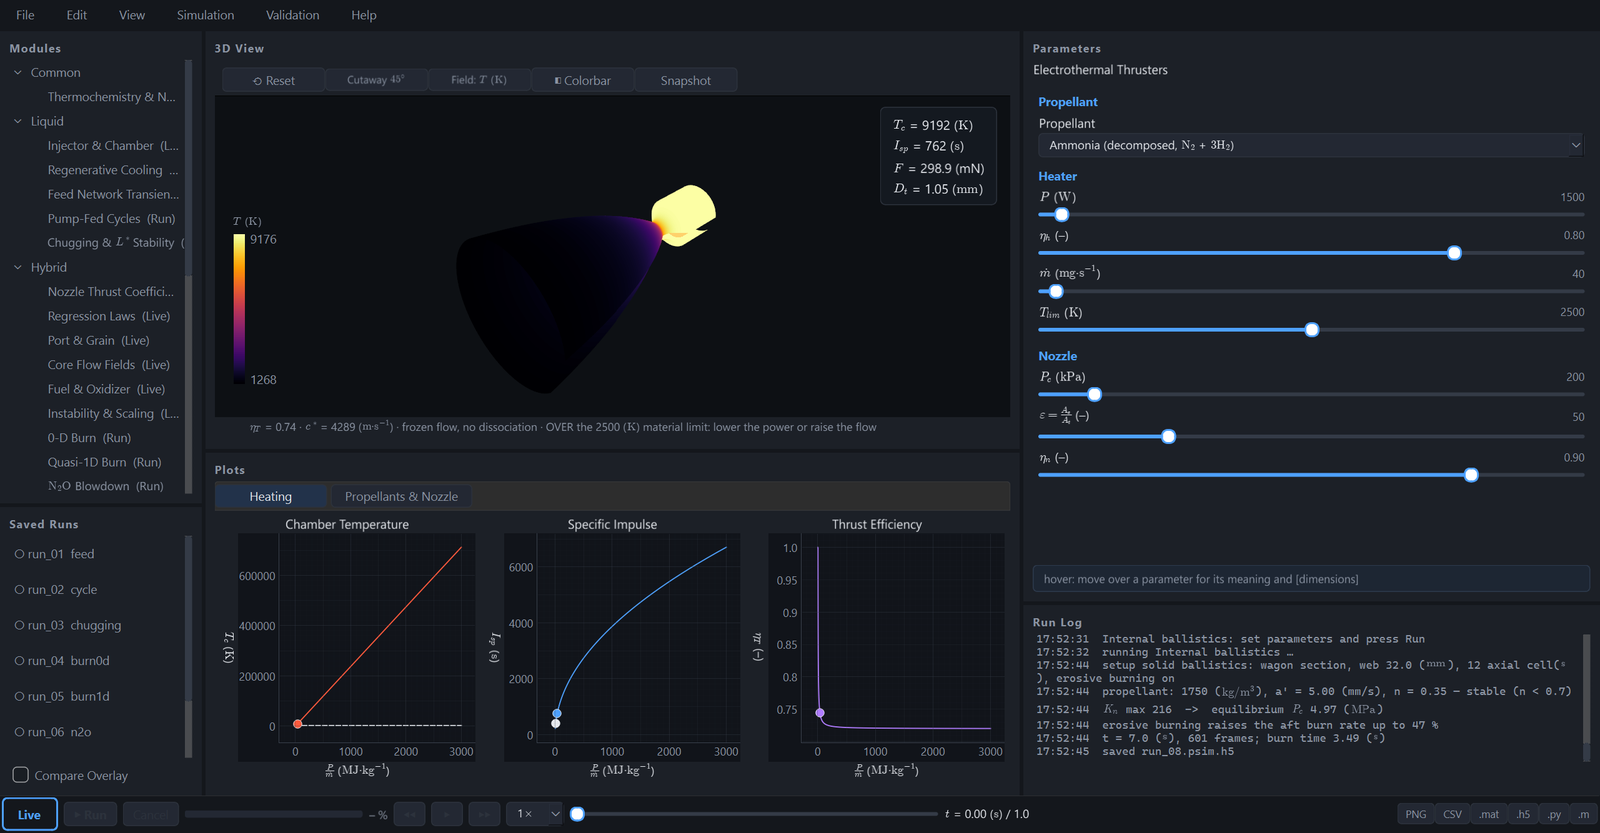
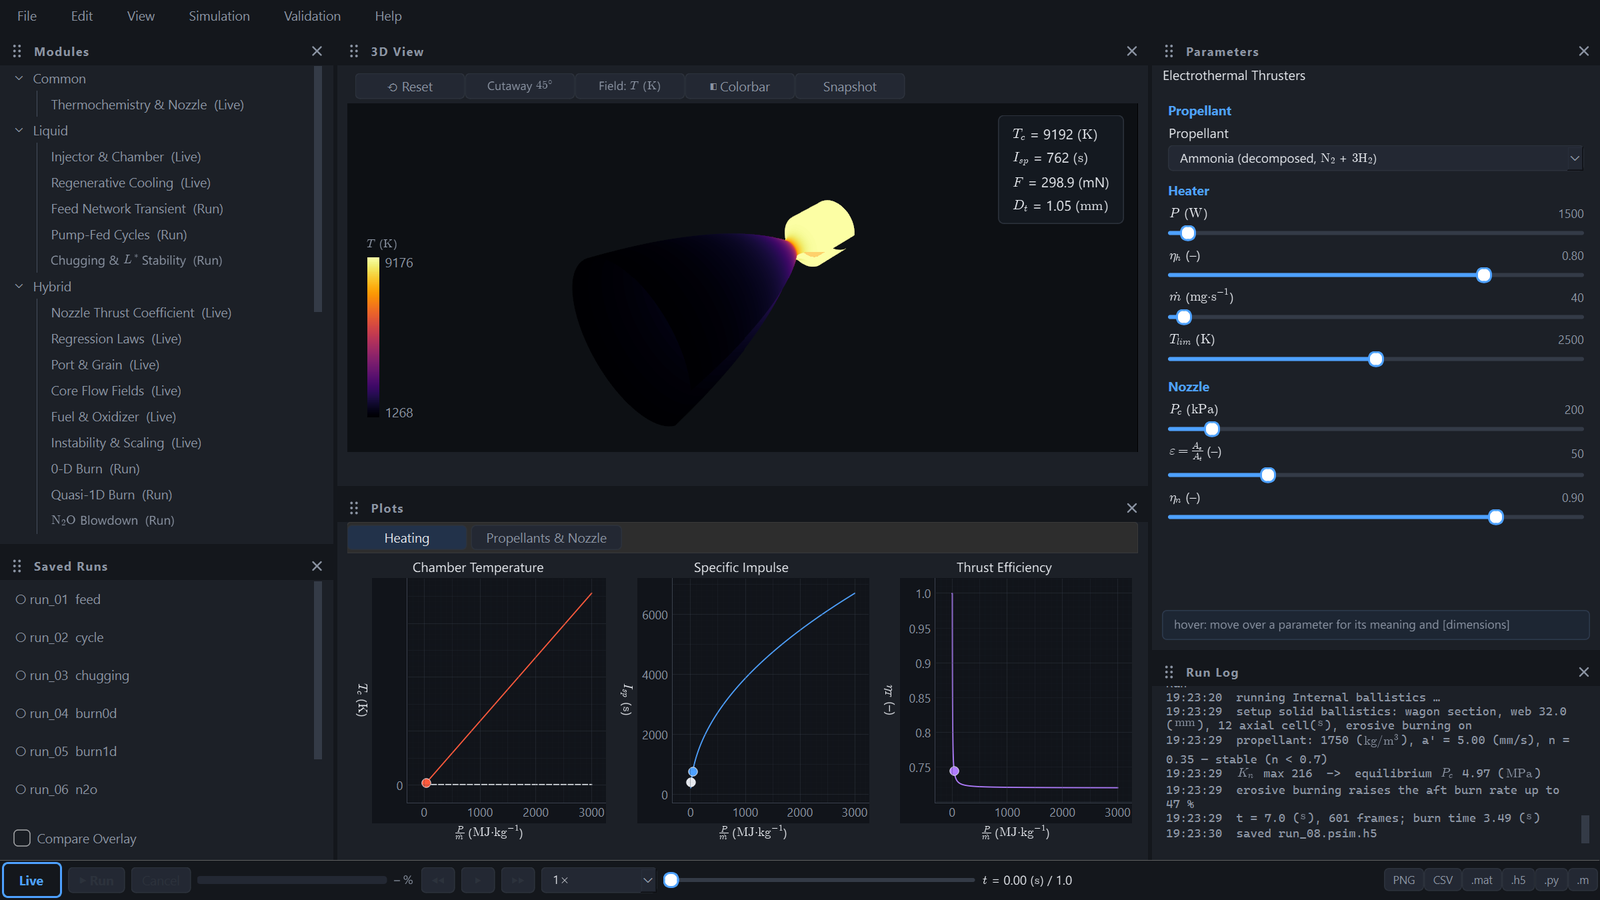
README: Gallery section last, vehicle and tutorial entries, regenerated screenshots

diff --git a/README.md b/README.md
@@ -3,67 +3,6 @@
 Interactive 3D rocket propulsion simulator for Windows: liquid, hybrid, solid and electric propulsion in one desktop
 application, with live parameter studies, time-domain simulations, synchronized 3D views and publication-style plots.
 
-## Screenshots
-
-<table>
-  <tr>
-    <td><img src="docs/gallery/01-thermochemistry-and-nozzle.png" alt="Thermochemistry & nozzle: propellant pair, O/F, P_c and area ratio give CEA performance and the nozzle"><br><sub><b>Thermochemistry & nozzle</b> (Common, Live)</sub></td>
-    <td><img src="docs/gallery/02-injector-and-chamber.png" alt="Injector & chamber: injector and chamber sizing"><br><sub><b>Injector & chamber</b> (Liquid, Live)</sub></td>
-  </tr>
-  <tr>
-    <td><img src="docs/gallery/03-regenerative-cooling.png" alt="Regenerative cooling: regenerative cooling of the chamber and nozzle"><br><sub><b>Regenerative cooling</b> (Liquid, Live)</sub></td>
-    <td><img src="docs/gallery/04-feed-network-transient.png" alt="Feed network transient: feed-network transient (valve timing, line dynamics)"><br><sub><b>Feed network transient</b> (Liquid, Run)</sub></td>
-  </tr>
-  <tr>
-    <td><img src="docs/gallery/05-pump-fed-cycles.png" alt="Pump-fed cycles: pump-fed cycles (gas generator, expander, staged combustion)"><br><sub><b>Pump-fed cycles</b> (Liquid, Run)</sub></td>
-    <td><img src="docs/gallery/06-chugging-and-l-star-stability.png" alt="Chugging & L* stability: chugging and L* stability"><br><sub><b>Chugging & L* stability</b> (Liquid, Run)</sub></td>
-  </tr>
-  <tr>
-    <td><img src="docs/gallery/07-nozzle-thrust-coefficient.png" alt="Nozzle thrust coefficient: nozzle area ratio gives the C_F curve, Mach and pressure distributions, and a 3D bell nozzle"><br><sub><b>Nozzle thrust coefficient</b> (Hybrid, Live)</sub></td>
-    <td><img src="docs/gallery/08-regression-laws.png" alt="Regression laws: regression-law explorer"><br><sub><b>Regression laws</b> (Hybrid, Live)</sub></td>
-  </tr>
-  <tr>
-    <td><img src="docs/gallery/09-port-and-grain.png" alt="Port & grain: port and multiport grain"><br><sub><b>Port & grain</b> (Hybrid, Live)</sub></td>
-    <td><img src="docs/gallery/10-core-flow-fields.png" alt="Core flow fields: core flow fields (Taylor-Culick and bidirectional-vortex mantle)"><br><sub><b>Core flow fields</b> (Hybrid, Live)</sub></td>
-  </tr>
-  <tr>
-    <td><img src="docs/gallery/11-fuel-and-oxidizer.png" alt="Fuel & oxidizer: fuel and oxidizer properties"><br><sub><b>Fuel & oxidizer</b> (Hybrid, Live)</sub></td>
-    <td><img src="docs/gallery/12-instability-and-scaling.png" alt="Instability & scaling: ILFI instability and similarity scaling"><br><sub><b>Instability & scaling</b> (Hybrid, Live)</sub></td>
-  </tr>
-  <tr>
-    <td><img src="docs/gallery/13-0-d-burn.png" alt="0-D burn: 0-D burn (HTPB/GOX power law) with 3D grain cutaway playback"><br><sub><b>0-D burn</b> (Hybrid, Run)</sub></td>
-    <td><img src="docs/gallery/14-quasi-1d-burn.png" alt="Quasi-1D burn: quasi-1D burn: axial port evolution, throttling, throat erosion"><br><sub><b>Quasi-1D burn</b> (Hybrid, Run)</sub></td>
-  </tr>
-  <tr>
-    <td><img src="docs/gallery/15-n2o-blowdown.png" alt="N₂O blowdown: N2O self-pressurized tank blowdown feeding the hybrid motor"><br><sub><b>N₂O blowdown</b> (Hybrid, Run)</sub></td>
-    <td><img src="docs/gallery/16-grain-designer.png" alt="Grain designer: grain designer (2-D section burnback tables)"><br><sub><b>Grain designer</b> (Solid, Live)</sub></td>
-  </tr>
-  <tr>
-    <td><img src="docs/gallery/17-burn-rate-and-k-n.png" alt="Burn rate & K_n: burn-rate and K_n tool"><br><sub><b>Burn rate & K_n</b> (Solid, Live)</sub></td>
-    <td><img src="docs/gallery/18-3d-burnback.png" alt="3D burnback: 3-D level-set burnback"><br><sub><b>3D burnback</b> (Solid, Run)</sub></td>
-  </tr>
-  <tr>
-    <td><img src="docs/gallery/19-internal-ballistics.png" alt="Internal ballistics: internal ballistics"><br><sub><b>Internal ballistics</b> (Solid, Run)</sub></td>
-    <td><img src="docs/gallery/20-mission-and-power-trades.png" alt="Mission & power trades: mission and power trades"><br><sub><b>Mission & power trades</b> (Electric, Live)</sub></td>
-  </tr>
-  <tr>
-    <td><img src="docs/gallery/21-electrothermal-thrusters.png" alt="Electrothermal thrusters: electrothermal thrusters"><br><sub><b>Electrothermal thrusters</b> (Electric, Live)</sub></td>
-    <td><img src="docs/gallery/22-gridded-ion-thruster.png" alt="Gridded ion thruster: gridded ion thruster"><br><sub><b>Gridded ion thruster</b> (Electric, Live)</sub></td>
-  </tr>
-  <tr>
-    <td><img src="docs/gallery/23-hall-thruster.png" alt="Hall thruster: Hall thruster"><br><sub><b>Hall thruster</b> (Electric, Live)</sub></td>
-    <td><img src="docs/gallery/24-ion-optics.png" alt="Ion optics: ion-optics beamlet particle simulation"><br><sub><b>Ion optics</b> (Electric, Run)</sub></td>
-  </tr>
-  <tr>
-    <td><img src="docs/gallery/25-hall-discharge.png" alt="Hall discharge: 1-D Hall discharge"><br><sub><b>Hall discharge</b> (Electric, Run)</sub></td>
-    <td><img src="docs/gallery/26-low-thrust-spiral.png" alt="Low-thrust spiral: low-thrust Edelbaum spiral with solar-array degradation"><br><sub><b>Low-thrust spiral</b> (Electric, Run)</sub></td>
-  </tr>
-  <tr>
-    <td><img src="docs/gallery/27-spring-mass.png" alt="Spring-mass: damped spring-mass, a proof of the Run pipeline (not a propulsion model)"><br><sub><b>Spring-mass</b> (Toy, Run)</sub></td>
-    <td></td>
-  </tr>
-</table>
-
 ## Features
 - **Live mode**: physics recomputes in under 50 ms while you drag a slider; plots, 3D scene and readouts follow.
 - **Run mode**: longer simulations run in a separate process with progress and Cancel, then play back with a
@@ -78,13 +17,19 @@ application, with live parameter studies, time-domain simulations, synchronized 
     internal ballistics with erosive burning.
   - *Electric*: mission and power trades (Stuhlinger), electrothermal thrusters, gridded ion and Hall thrusters,
     ion-optics particle simulation, Hall discharge, low-thrust Edelbaum spiral with power degradation.
+  - *Vehicle*: staging and atmosphere budget, and a 2-D point-mass ascent over a spherical Earth (U.S. Standard
+    Atmosphere 1976, drag curves or your own table, wind, up to three stages, pitch kick and level-off guidance,
+    perigee cutoff) that can fly thrust curves sent from the hybrid, solid and liquid models.
 - **All math in LaTeX**: plot labels, tables, readouts and hover help; every plot has a grid.
 - **Color themes**: Graphite, Ocean, Forest, Plum and Light, chosen in *View > Color Theme* (Ctrl+Shift+T; Ctrl+T
   steps to the next one) and remembered between sessions. The picker shows each theme's palette and falls back to the
   theme names alone when the window is too narrow for the palettes.
 
-<p align="center"><img src="docs/gallery/color-themes.png" alt="Color theme picker: Graphite, Ocean, Forest, Plum and Light palettes"></p>
-- **Export**: PNG figures, CSV, MATLAB `.mat`, HDF5, and runnable code:
+- **Panels and tutorial**: every panel has a drag grip (top left) and a close button (top right); *View > Panels* and
+  Ctrl+Shift+R bring them back. *Help > Tutorial* (Ctrl+F1) is a guided tour you step through with the left and right
+  arrow keys, and it is offered on the first launch.
+- **Export**: reports (HTML, PDF, or LaTeX tables with figures) and the exports below, PNG figures, CSV, MATLAB `.mat`,
+  HDF5, and runnable code:
   - *Python script* (`.py`): rebuilds the model with your parameters through the `propsim` package and redraws
     every plot with Matplotlib.
   - *MATLAB script* (`.m` + `_data.mat`): every plot redrawn natively (grid, LaTeX labels); set `rerun = true`
@@ -135,12 +80,14 @@ application, with live parameter studies, time-domain simulations, synchronized 
 
 **Vehicle**
 
+- **Vehicle & staging** (Live): staging budget (ideal velocity, mass, thrust-to-weight), atmosphere, drag and wind, with a stack sketch.
+- **Point-mass ascent** (Run): 2-D point-mass ascent over a spherical Earth with staging, wind, drag and imported thrust profiles.
 
 **Toy**
 
 - **Spring-mass** (Run): damped spring-mass, a proof of the Run pipeline (not a propulsion model).
 
-Planned and not yet implemented: ILFI stability (Run) and point-mass ascent (Vehicle).
+Planned and not yet implemented: ILFI stability (Run).
 
 ## System requirements
 
@@ -172,6 +119,8 @@ CEA tables are used); `pip install -e ".[rao]"` enables Rao optimum-bell angles 
 pygasflow (GPL-3.0, not bundled; without it the bell contour uses labelled placeholder angles).
 
 ## Getting started
+The [user guide](GUIDE.md) covers the window, workflows, exports, the data folder and shortcuts.
+
 1. Pick a model in the **Modules** tree: *(Live)* models update as you move the sliders, *(Run)* models start with
    **Run** (Ctrl+R).
 2. Hover over a parameter to see its meaning and dimensions.
@@ -236,3 +185,70 @@ PropSim's own code is released under the [MIT License](LICENSE). Third-party not
 
 ## Help and feedback
 Questions and bug reports: [GitHub Issues](https://github.com/Chiyami1213/propsim/issues).
+
+## Gallery
+
+<table>
+  <tr>
+    <td><img src="docs/gallery/01-thermochemistry-and-nozzle.png" alt="Thermochemistry & nozzle: propellant pair, O/F, P_c and area ratio give CEA performance and the nozzle"><br><sub><b>Thermochemistry & nozzle</b> (Common, Live)</sub></td>
+    <td><img src="docs/gallery/02-injector-and-chamber.png" alt="Injector & chamber: injector and chamber sizing"><br><sub><b>Injector & chamber</b> (Liquid, Live)</sub></td>
+  </tr>
+  <tr>
+    <td><img src="docs/gallery/03-regenerative-cooling.png" alt="Regenerative cooling: regenerative cooling of the chamber and nozzle"><br><sub><b>Regenerative cooling</b> (Liquid, Live)</sub></td>
+    <td><img src="docs/gallery/04-feed-network-transient.png" alt="Feed network transient: feed-network transient (valve timing, line dynamics)"><br><sub><b>Feed network transient</b> (Liquid, Run)</sub></td>
+  </tr>
+  <tr>
+    <td><img src="docs/gallery/05-pump-fed-cycles.png" alt="Pump-fed cycles: pump-fed cycles (gas generator, expander, staged combustion)"><br><sub><b>Pump-fed cycles</b> (Liquid, Run)</sub></td>
+    <td><img src="docs/gallery/06-chugging-and-l-star-stability.png" alt="Chugging & L* stability: chugging and L* stability"><br><sub><b>Chugging & L* stability</b> (Liquid, Run)</sub></td>
+  </tr>
+  <tr>
+    <td><img src="docs/gallery/07-nozzle-thrust-coefficient.png" alt="Nozzle thrust coefficient: nozzle area ratio gives the C_F curve, Mach and pressure distributions, and a 3D bell nozzle"><br><sub><b>Nozzle thrust coefficient</b> (Hybrid, Live)</sub></td>
+    <td><img src="docs/gallery/08-regression-laws.png" alt="Regression laws: regression-law explorer"><br><sub><b>Regression laws</b> (Hybrid, Live)</sub></td>
+  </tr>
+  <tr>
+    <td><img src="docs/gallery/09-port-and-grain.png" alt="Port & grain: port and multiport grain"><br><sub><b>Port & grain</b> (Hybrid, Live)</sub></td>
+    <td><img src="docs/gallery/10-core-flow-fields.png" alt="Core flow fields: core flow fields (Taylor-Culick and bidirectional-vortex mantle)"><br><sub><b>Core flow fields</b> (Hybrid, Live)</sub></td>
+  </tr>
+  <tr>
+    <td><img src="docs/gallery/11-fuel-and-oxidizer.png" alt="Fuel & oxidizer: fuel and oxidizer properties"><br><sub><b>Fuel & oxidizer</b> (Hybrid, Live)</sub></td>
+    <td><img src="docs/gallery/12-instability-and-scaling.png" alt="Instability & scaling: ILFI instability and similarity scaling"><br><sub><b>Instability & scaling</b> (Hybrid, Live)</sub></td>
+  </tr>
+  <tr>
+    <td><img src="docs/gallery/13-0-d-burn.png" alt="0-D burn: 0-D burn (HTPB/GOX power law) with 3D grain cutaway playback"><br><sub><b>0-D burn</b> (Hybrid, Run)</sub></td>
+    <td><img src="docs/gallery/14-quasi-1d-burn.png" alt="Quasi-1D burn: quasi-1D burn: axial port evolution, throttling, throat erosion"><br><sub><b>Quasi-1D burn</b> (Hybrid, Run)</sub></td>
+  </tr>
+  <tr>
+    <td><img src="docs/gallery/15-n2o-blowdown.png" alt="N₂O blowdown: N2O self-pressurized tank blowdown feeding the hybrid motor"><br><sub><b>N₂O blowdown</b> (Hybrid, Run)</sub></td>
+    <td><img src="docs/gallery/16-grain-designer.png" alt="Grain designer: grain designer (2-D section burnback tables)"><br><sub><b>Grain designer</b> (Solid, Live)</sub></td>
+  </tr>
+  <tr>
+    <td><img src="docs/gallery/17-burn-rate-and-k-n.png" alt="Burn rate & K_n: burn-rate and K_n tool"><br><sub><b>Burn rate & K_n</b> (Solid, Live)</sub></td>
+    <td><img src="docs/gallery/18-3d-burnback.png" alt="3D burnback: 3-D level-set burnback"><br><sub><b>3D burnback</b> (Solid, Run)</sub></td>
+  </tr>
+  <tr>
+    <td><img src="docs/gallery/19-internal-ballistics.png" alt="Internal ballistics: internal ballistics"><br><sub><b>Internal ballistics</b> (Solid, Run)</sub></td>
+    <td><img src="docs/gallery/20-mission-and-power-trades.png" alt="Mission & power trades: mission and power trades"><br><sub><b>Mission & power trades</b> (Electric, Live)</sub></td>
+  </tr>
+  <tr>
+    <td><img src="docs/gallery/21-electrothermal-thrusters.png" alt="Electrothermal thrusters: electrothermal thrusters"><br><sub><b>Electrothermal thrusters</b> (Electric, Live)</sub></td>
+    <td><img src="docs/gallery/22-gridded-ion-thruster.png" alt="Gridded ion thruster: gridded ion thruster"><br><sub><b>Gridded ion thruster</b> (Electric, Live)</sub></td>
+  </tr>
+  <tr>
+    <td><img src="docs/gallery/23-hall-thruster.png" alt="Hall thruster: Hall thruster"><br><sub><b>Hall thruster</b> (Electric, Live)</sub></td>
+    <td><img src="docs/gallery/24-ion-optics.png" alt="Ion optics: ion-optics beamlet particle simulation"><br><sub><b>Ion optics</b> (Electric, Run)</sub></td>
+  </tr>
+  <tr>
+    <td><img src="docs/gallery/25-hall-discharge.png" alt="Hall discharge: 1-D Hall discharge"><br><sub><b>Hall discharge</b> (Electric, Run)</sub></td>
+    <td><img src="docs/gallery/26-low-thrust-spiral.png" alt="Low-thrust spiral: low-thrust Edelbaum spiral with solar-array degradation"><br><sub><b>Low-thrust spiral</b> (Electric, Run)</sub></td>
+  </tr>
+  <tr>
+    <td><img src="docs/gallery/27-vehicle-and-staging.png" alt="Vehicle & staging: staging budget (ideal velocity, mass, thrust-to-weight), atmosphere, drag and wind, with a stack sketch"><br><sub><b>Vehicle & staging</b> (Vehicle, Live)</sub></td>
+    <td><img src="docs/gallery/28-point-mass-ascent.png" alt="Point-mass ascent: 2-D point-mass ascent over a spherical Earth with staging, wind, drag and imported thrust profiles"><br><sub><b>Point-mass ascent</b> (Vehicle, Run)</sub></td>
+  </tr>
+  <tr>
+    <td><img src="docs/gallery/29-spring-mass.png" alt="Spring-mass: damped spring-mass, a proof of the Run pipeline (not a propulsion model)"><br><sub><b>Spring-mass</b> (Toy, Run)</sub></td>
+    <td></td>
+  </tr>
+</table>
+
+<p align="center"><img src="docs/gallery/tutorial.png" alt="The guided tutorial highlights the parameters panel and explains it"><br><sub>The guided tutorial (Help &gt; Tutorial): left and right arrow keys move between steps.</sub></p>

diff --git a/CHANGELOG.md b/CHANGELOG.md
@@ -16,5 +16,10 @@ New changes go above this line, newest first.
   simulation, Hall discharge, low-thrust Edelbaum spiral.
 - All math in LaTeX; every plot has a grid; dockable panels with a restorable default layout.
 - Five color themes (Graphite, Ocean, Forest, Plum, Light) with a palette picker that collapses to names when narrow.
+- Vehicle: staging and atmosphere budget; point-mass ascent with the U.S. Standard Atmosphere 1976, staging, wind,
+  drag curves or a drag table, level-off guidance, and thrust profiles sent from hybrid, solid and liquid runs.
+- Panels with drag grips and close buttons, a View > Panels menu and a restorable default layout; guided tutorial
+  navigated with the arrow keys; solid scrollbars; crisp text at fractional display scaling.
+- Reports (HTML, PDF, LaTeX tables with figures) and a user guide.
 - Export to PNG, CSV, MATLAB `.mat`, HDF5, and runnable Python and MATLAB scripts.
 - Windows installer with a system-requirements page and a link to the online help.
